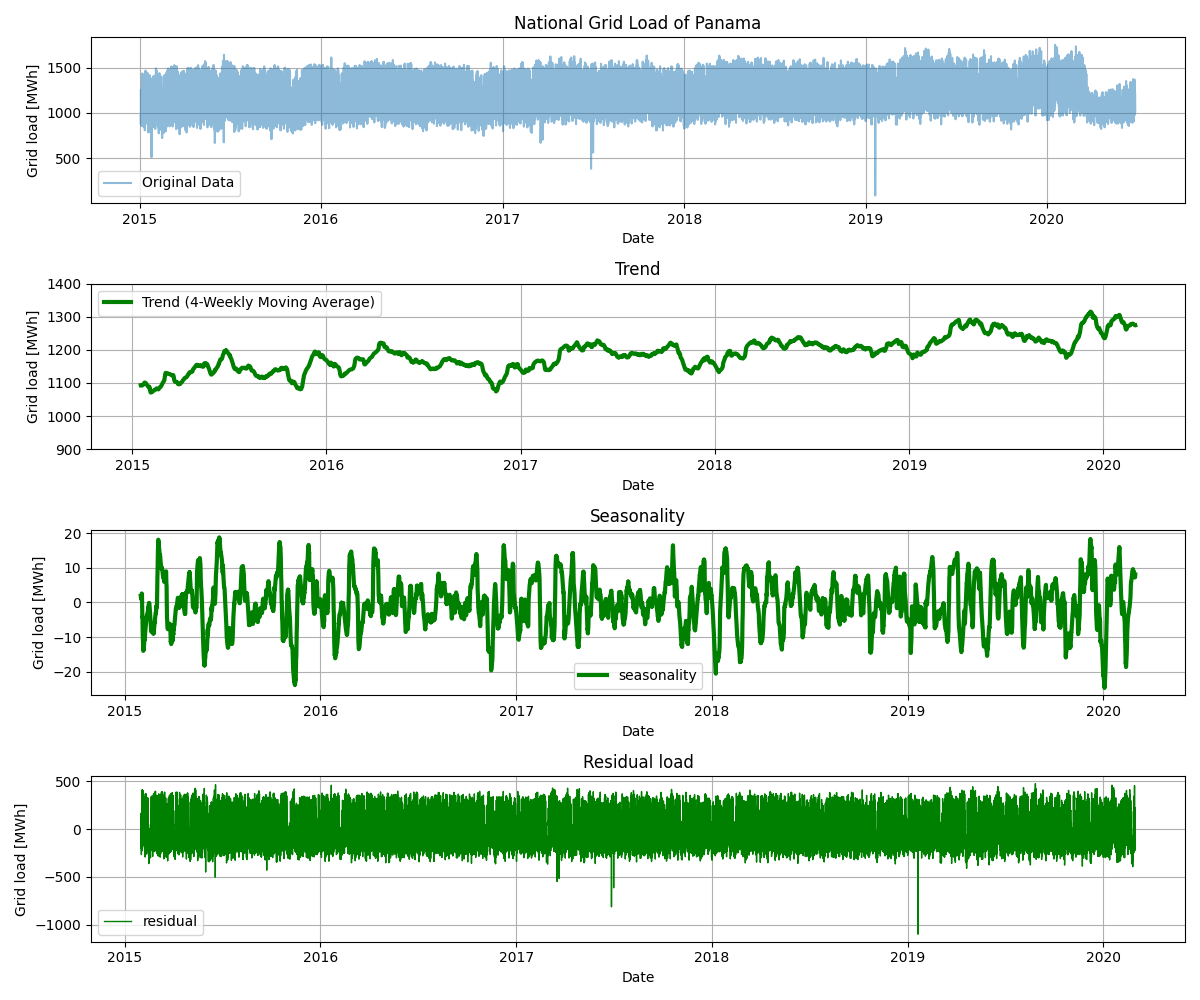
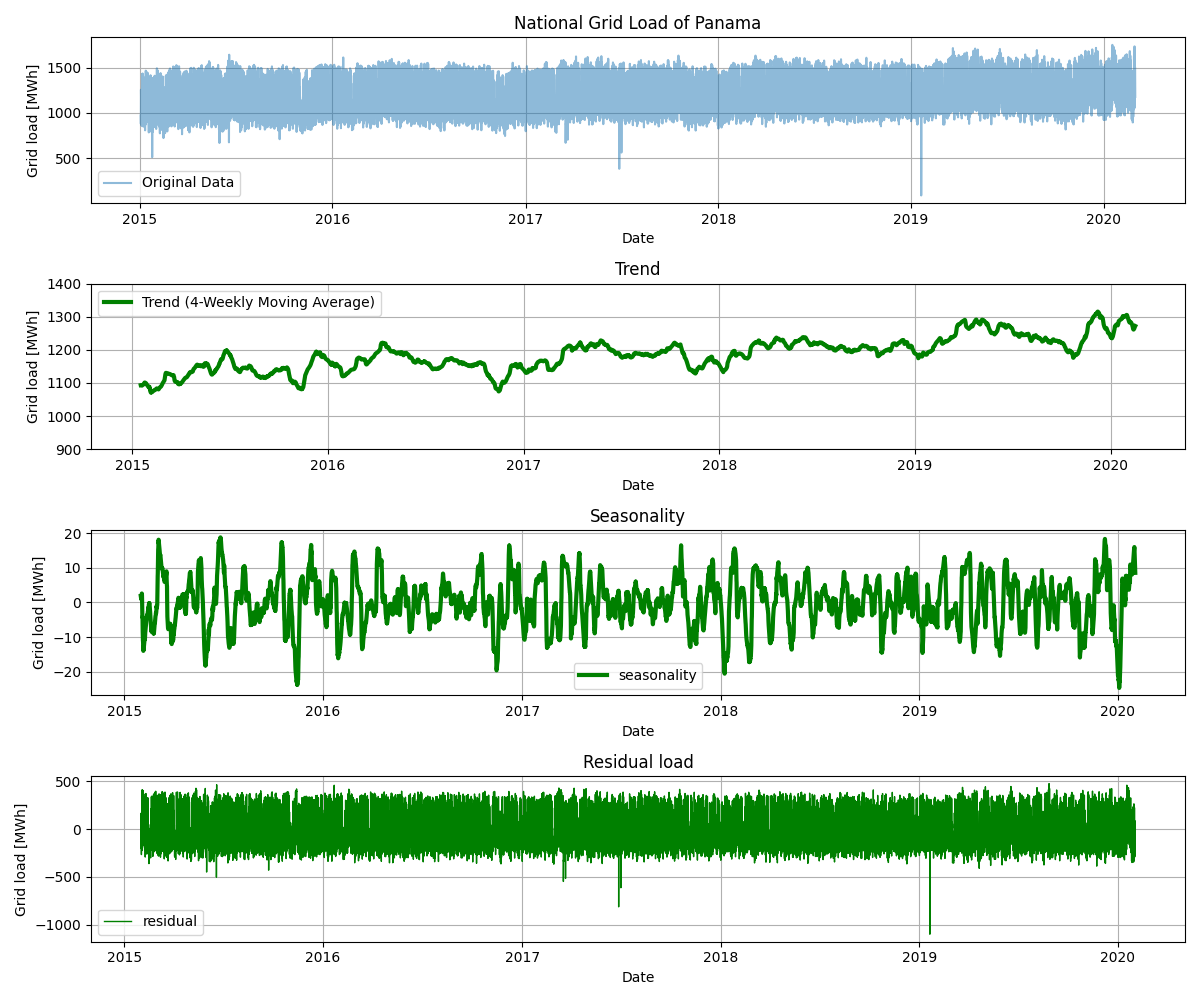
Added the average grid laod per holiday

diff --git a/visualize_data.py b/visualize_data.py
@@ -8,6 +8,7 @@ df = pd.read_csv('dataset/continuous dataset.csv')
 # Ensure datetime is parsed correctly
 df['datetime'] = pd.to_datetime(df['datetime'])
 df = df.sort_values('datetime')
+df = df[df['datetime'] <= pd.to_datetime('2020-03-01')]
 
 df['day_of_week'] = df['datetime'].dt.day_of_week
 
@@ -17,7 +18,13 @@ df['hour'] = df['datetime'].dt.hour
 # Minute of the day
 df['minute_of_day'] = df['datetime'].dt.hour * 60 + df['datetime'].dt.minute
 
+# Holidays (ID 0-22)
+unique_holiday_IDs = df['Holiday_ID'].unique()
+print(unique_holiday_IDs)
 
+def save_fig(title):
+    os.makedirs("images", exist_ok=True)
+    plt.savefig(f"images/{title}.png")
 
 # Plot to see when covid happened
 def plot_covid():
@@ -108,19 +115,34 @@ def plot_grid_load_intra_day():
     axes[0].plot(avg_daily.index, avg_daily.values, marker='o')
     axes[0].set_title('Average Grid Load per Day of the Week')
     axes[0].set_xlabel('Day of week')
-    axes[0].set_ylabel('Average Grid Load')
+    axes[0].set_ylabel('Grid Load [MWh]')
     axes[0].grid(True)
 
     # Plot 2: Daily (based on minutes)
     axes[1].plot(avg_hourly.index, avg_hourly.values, marker='o')
     axes[1].set_title('Average Daily Grid Load by Hour')
     axes[1].set_xlabel('Hour of Day')
-    axes[1].set_ylabel('Average Grid Load')
+    axes[1].set_ylabel('Grid Load [MWh]')
     axes[1].grid(True)
 
     plt.tight_layout()
-    os.makedirs("images", exist_ok=True)
-    plt.savefig("images/weekly_daily_average.png")
+    save_fig('weekly_daily_average')
     plt.show()
 
-plot_grid_load_intra_day()
+def plot_holiday_IDs():
+    avg_demand = df['nat_demand'].mean()
+    plt.figure(figsize=(10, 5))
+    avg_holiday = df.groupby('Holiday_ID')['nat_demand'].mean()
+    plt.plot(avg_holiday.index, avg_holiday.values, marker='o')
+    plt.axhline(y=avg_demand, color='red', linestyle='--', linewidth=1.5, label='y = average demand')  # ← added line
+    plt.title('Average Daily Grid Load per Holiday')
+    plt.xlabel('Holiday ID')
+    plt.ylabel('Gird Load [MWh]')
+    plt.grid(True)
+    plt.tight_layout()
+    save_fig('holiday_grid_loads')
+    plt.show()
+
+plot_grid_load()
+# plot_grid_load_intra_day()
+# plot_holiday_IDs()
